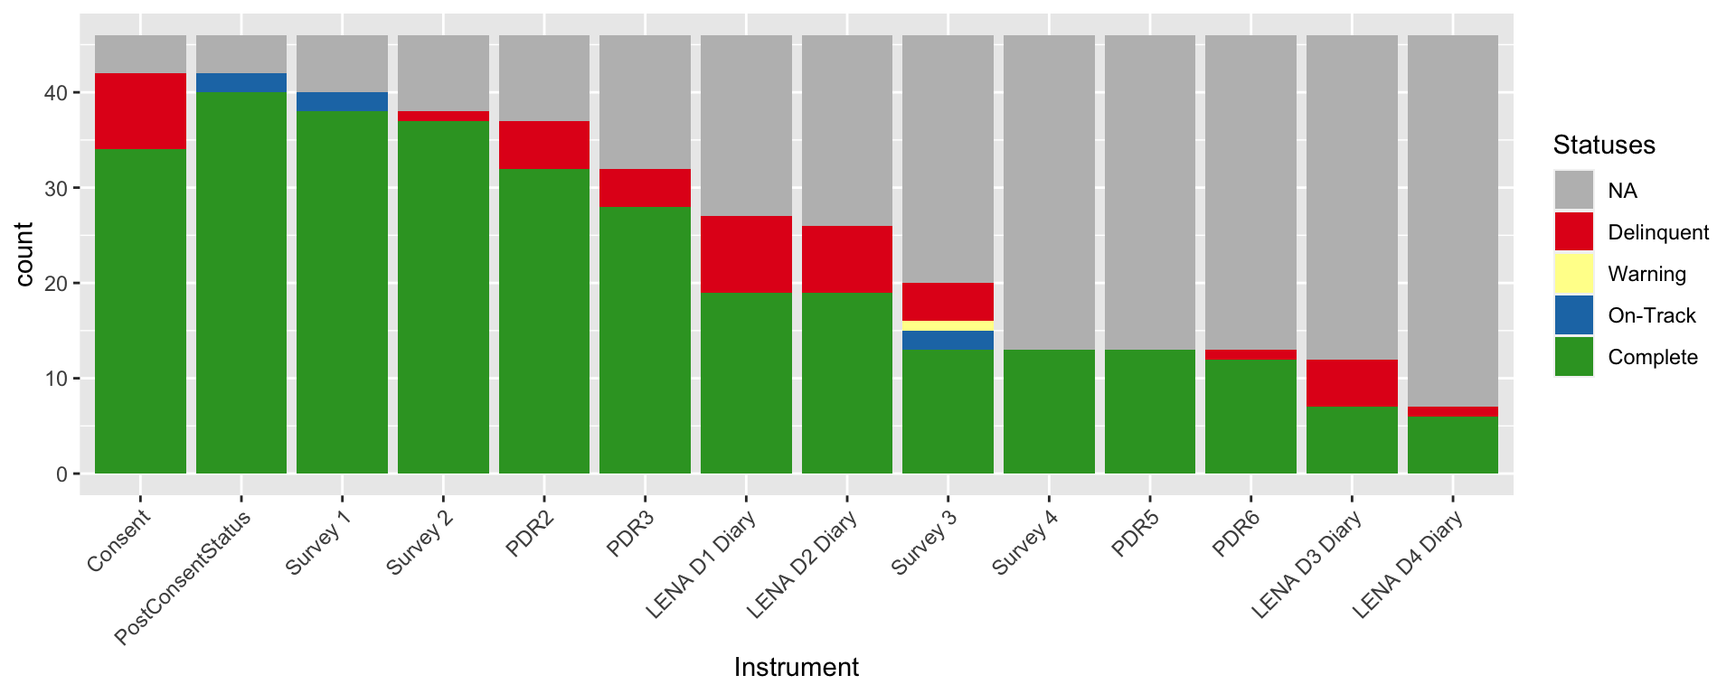
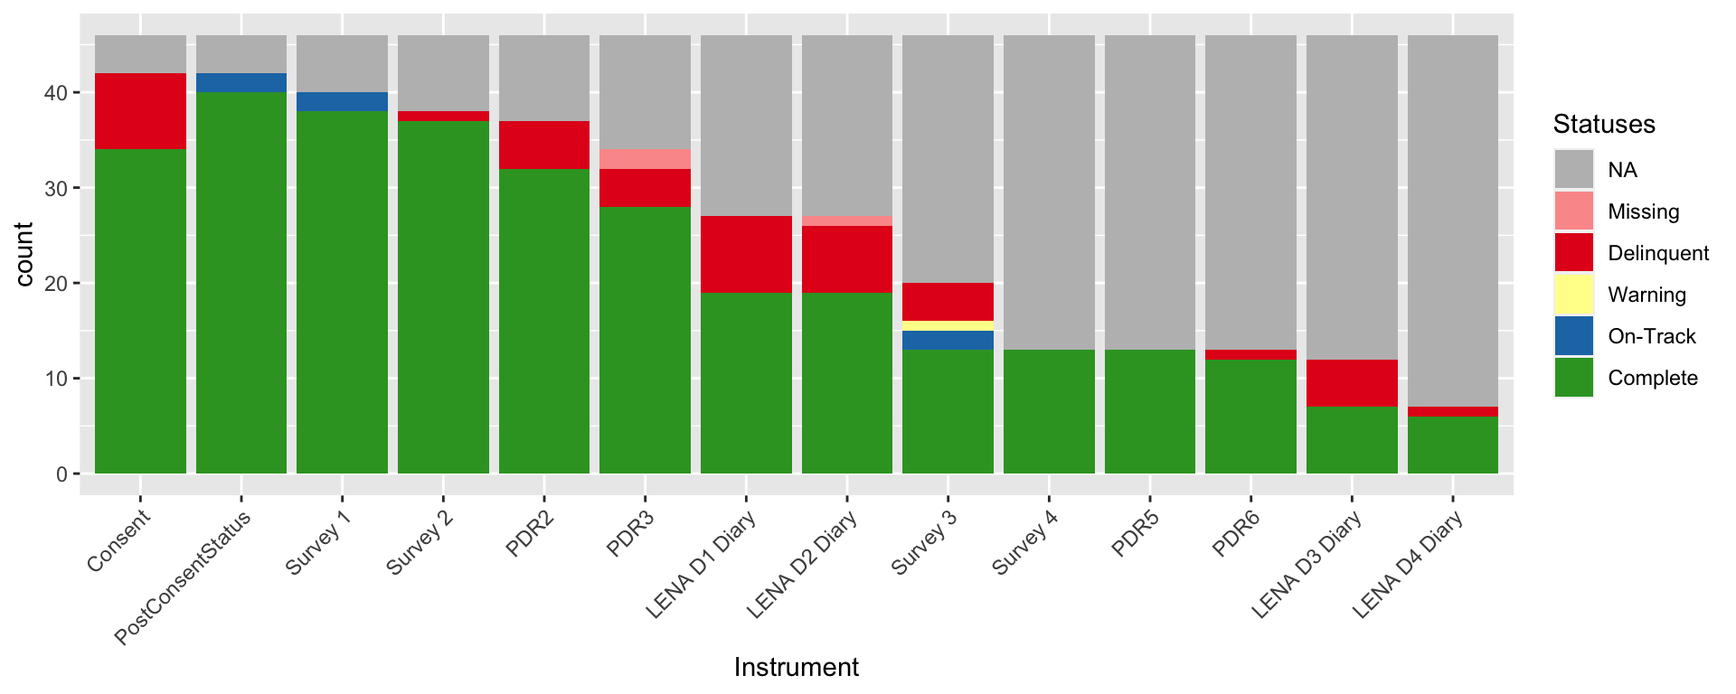
Added missing category to charts

Changed region(s): [[0.875, 0.1562, 1.0, 0.5938], [0.3438, 0.1875, 0.4062, 0.25], [0.4688, 0.3125, 0.5312, 0.3438]]

diff --git a/_site/reports.html b/_site/reports.html
@@ -399,7 +399,7 @@ $(document).ready(function () {
 </div>
 <center>
 <div id="htmlwidget-2e17466358a46d139971" style="width:960px;height:384px;" class="plotly html-widget"></div>
-<script type="application/json" data-for="htmlwidget-2e17466358a46d139971">{"x":{"data":[{"x":[1577836800,1594210295,1595855440,1595947129,1596636699,1597147658,1597158465,1597402867,1597741838,1598436608,1598538979,1598541299,1598955066,1599570320,1600250194,1600255992,1600355481,1600863340,1601302221,1601566658,1602239005,1603368728,1603379955,1603977413,1604491899,1604751373,1605089156,1605170346,1605179257,1605721538,1605872792,1607016682,1607085091,1607472000,1607644800,1607687486,1609891200,1609897301,1611187200,1611187200,1611187200,1609897301,1609891200,1607687486,1607644800,1607472000,1607085091,1607016682,1605872792,1605721538,1605179257,1605170346,1605089156,1604751373,1604491899,1603977413,1603379955,1603368728,1602239005,1601566658,1601302221,1600863340,1600355481,1600255992,1600250194,1599570320,1598955066,1598541299,1598538979,1598436608,1597741838,1597402867,1597158465,1597147658,1596636699,1595947129,1595855440,1594210295,1577836800,1577836800],"y":[0,0,0,0,0,0,0,0,0,0,0,0,0,0,0,0,0,0,0,0,0,0,0,0,0,0,0,0,0,0,0,0,0,0,0,0,0,0,0,0,42,41,40,39,38,37,36,35,34,33,32,31,30,29,28,27,26,25,24,23,22,21,20,19,18,17,16,15,14,13,12,11,10,9,8,7,6,5,4,0],"text":["InformedConsent: 2020-01-01 08:00:00<br />Cumulative:  4","InformedConsent: 2020-07-08 19:11:35<br />Cumulative:  5","InformedConsent: 2020-07-27 20:10:40<br />Cumulative:  6","InformedConsent: 2020-07-28 21:38:49<br />Cumulative:  7","InformedConsent: 2020-08-05 21:11:39<br />Cumulative:  8","InformedConsent: 2020-08-11 19:07:38<br />Cumulative:  9","InformedConsent: 2020-08-11 22:07:45<br />Cumulative: 10","InformedConsent: 2020-08-14 18:01:07<br />Cumulative: 11","InformedConsent: 2020-08-18 16:10:38<br />Cumulative: 12","InformedConsent: 2020-08-26 17:10:08<br />Cumulative: 13","InformedConsent: 2020-08-27 21:36:19<br />Cumulative: 14","InformedConsent: 2020-08-27 22:14:59<br />Cumulative: 15","InformedConsent: 2020-09-01 17:11:06<br />Cumulative: 16","InformedConsent: 2020-09-08 20:05:20<br />Cumulative: 17","InformedConsent: 2020-09-16 16:56:34<br />Cumulative: 18","InformedConsent: 2020-09-16 18:33:12<br />Cumulative: 19","InformedConsent: 2020-09-17 22:11:21<br />Cumulative: 20","InformedConsent: 2020-09-23 19:15:40<br />Cumulative: 21","InformedConsent: 2020-09-28 21:10:21<br />Cumulative: 22","InformedConsent: 2020-10-01 22:37:38<br />Cumulative: 23","InformedConsent: 2020-10-09 17:23:25<br />Cumulative: 24","InformedConsent: 2020-10-22 19:12:08<br />Cumulative: 25","InformedConsent: 2020-10-22 22:19:15<br />Cumulative: 26","InformedConsent: 2020-10-29 20:16:53<br />Cumulative: 27","InformedConsent: 2020-11-04 20:11:39<br />Cumulative: 28","InformedConsent: 2020-11-07 20:16:13<br />Cumulative: 29","InformedConsent: 2020-11-11 18:05:56<br />Cumulative: 30","InformedConsent: 2020-11-12 16:39:06<br />Cumulative: 31","InformedConsent: 2020-11-12 19:07:37<br />Cumulative: 32","InformedConsent: 2020-11-19 01:45:38<br />Cumulative: 33","InformedConsent: 2020-11-20 19:46:32<br />Cumulative: 34","InformedConsent: 2020-12-04 01:31:22<br />Cumulative: 35","InformedConsent: 2020-12-04 20:31:31<br />Cumulative: 36","InformedConsent: 2020-12-09 08:00:00<br />Cumulative: 37","InformedConsent: 2020-12-11 08:00:00<br />Cumulative: 38","InformedConsent: 2020-12-11 19:51:26<br />Cumulative: 39","InformedConsent: 2021-01-06 08:00:00<br />Cumulative: 40","InformedConsent: 2021-01-06 09:41:41<br />Cumulative: 41","InformedConsent: 2021-01-21 08:00:00<br />Cumulative: 42","InformedConsent: 2021-01-21 08:00:00<br />Cumulative: 42","InformedConsent: 2021-01-21 08:00:00<br />Cumulative: 42","InformedConsent: 2021-01-06 09:41:41<br />Cumulative: 41","InformedConsent: 2021-01-06 08:00:00<br />Cumulative: 40","InformedConsent: 2020-12-11 19:51:26<br />Cumulative: 39","InformedConsent: 2020-12-11 08:00:00<br />Cumulative: 38","InformedConsent: 2020-12-09 08:00:00<br />Cumulative: 37","InformedConsent: 2020-12-04 20:31:31<br />Cumulative: 36","InformedConsent: 2020-12-04 01:31:22<br />Cumulative: 35","InformedConsent: 2020-11-20 19:46:32<br />Cumulative: 34","InformedConsent: 2020-11-19 01:45:38<br />Cumulative: 33","InformedConsent: 2020-11-12 19:07:37<br />Cumulative: 32","InformedConsent: 2020-11-12 16:39:06<br />Cumulative: 31","InformedConsent: 2020-11-11 18:05:56<br />Cumulative: 30","InformedConsent: 2020-11-07 20:16:13<br />Cumulative: 29","InformedConsent: 2020-11-04 20:11:39<br />Cumulative: 28","InformedConsent: 2020-10-29 20:16:53<br />Cumulative: 27","InformedConsent: 2020-10-22 22:19:15<br />Cumulative: 26","InformedConsent: 2020-10-22 19:12:08<br />Cumulative: 25","InformedConsent: 2020-10-09 17:23:25<br />Cumulative: 24","InformedConsent: 2020-10-01 22:37:38<br />Cumulative: 23","InformedConsent: 2020-09-28 21:10:21<br />Cumulative: 22","InformedConsent: 2020-09-23 19:15:40<br />Cumulative: 21","InformedConsent: 2020-09-17 22:11:21<br />Cumulative: 20","InformedConsent: 2020-09-16 18:33:12<br />Cumulative: 19","InformedConsent: 2020-09-16 16:56:34<br />Cumulative: 18","InformedConsent: 2020-09-08 20:05:20<br />Cumulative: 17","InformedConsent: 2020-09-01 17:11:06<br />Cumulative: 16","InformedConsent: 2020-08-27 22:14:59<br />Cumulative: 15","InformedConsent: 2020-08-27 21:36:19<br />Cumulative: 14","InformedConsent: 2020-08-26 17:10:08<br />Cumulative: 13","InformedConsent: 2020-08-18 16:10:38<br />Cumulative: 12","InformedConsent: 2020-08-14 18:01:07<br />Cumulative: 11","InformedConsent: 2020-08-11 22:07:45<br />Cumulative: 10","InformedConsent: 2020-08-11 19:07:38<br />Cumulative:  9","InformedConsent: 2020-08-05 21:11:39<br />Cumulative:  8","InformedConsent: 2020-07-28 21:38:49<br />Cumulative:  7","InformedConsent: 2020-07-27 20:10:40<br />Cumulative:  6","InformedConsent: 2020-07-08 19:11:35<br />Cumulative:  5","InformedConsent: 2020-01-01 08:00:00<br />Cumulative:  4","InformedConsent: 2020-01-01 08:00:00<br />Cumulative:  4"],"type":"scatter","mode":"lines","line":{"width":1.88976377952756,"color":"transparent","dash":"solid"},"fill":"toself","fillcolor":"rgba(105,179,162,0.5)","hoveron":"points","showlegend":false,"xaxis":"x","yaxis":"y","hoverinfo":"text","frame":null},{"x":[1577836800,1594210295,1595855440,1595947129,1596636699,1597147658,1597158465,1597402867,1597741838,1598436608,1598538979,1598541299,1598955066,1599570320,1600250194,1600255992,1600355481,1600863340,1601302221,1601566658,1602239005,1603368728,1603379955,1603977413,1604491899,1604751373,1605089156,1605170346,1605179257,1605721538,1605872792,1607016682,1607085091,1607472000,1607644800,1607687486,1609891200,1609897301,1611187200,null],"y":[4,5,6,7,8,9,10,11,12,13,14,15,16,17,18,19,20,21,22,23,24,25,26,27,28,29,30,31,32,33,34,35,36,37,38,39,40,41,42,49],"text":["InformedConsent: 2020-01-01 00:00:00<br />Cumulative:  4","InformedConsent: 2020-07-08 12:11:35<br />Cumulative:  5","InformedConsent: 2020-07-27 13:10:40<br />Cumulative:  6","InformedConsent: 2020-07-28 14:38:49<br />Cumulative:  7","InformedConsent: 2020-08-05 14:11:39<br />Cumulative:  8","InformedConsent: 2020-08-11 12:07:38<br />Cumulative:  9","InformedConsent: 2020-08-11 15:07:45<br />Cumulative: 10","InformedConsent: 2020-08-14 11:01:07<br />Cumulative: 11","InformedConsent: 2020-08-18 09:10:38<br />Cumulative: 12","InformedConsent: 2020-08-26 10:10:08<br />Cumulative: 13","InformedConsent: 2020-08-27 14:36:19<br />Cumulative: 14","InformedConsent: 2020-08-27 15:14:59<br />Cumulative: 15","InformedConsent: 2020-09-01 10:11:06<br />Cumulative: 16","InformedConsent: 2020-09-08 13:05:20<br />Cumulative: 17","InformedConsent: 2020-09-16 09:56:34<br />Cumulative: 18","InformedConsent: 2020-09-16 11:33:12<br />Cumulative: 19","InformedConsent: 2020-09-17 15:11:21<br />Cumulative: 20","InformedConsent: 2020-09-23 12:15:40<br />Cumulative: 21","InformedConsent: 2020-09-28 14:10:21<br />Cumulative: 22","InformedConsent: 2020-10-01 15:37:38<br />Cumulative: 23","InformedConsent: 2020-10-09 10:23:25<br />Cumulative: 24","InformedConsent: 2020-10-22 12:12:08<br />Cumulative: 25","InformedConsent: 2020-10-22 15:19:15<br />Cumulative: 26","InformedConsent: 2020-10-29 13:16:53<br />Cumulative: 27","InformedConsent: 2020-11-04 12:11:39<br />Cumulative: 28","InformedConsent: 2020-11-07 12:16:13<br />Cumulative: 29","InformedConsent: 2020-11-11 10:05:56<br />Cumulative: 30","InformedConsent: 2020-11-12 08:39:06<br />Cumulative: 31","InformedConsent: 2020-11-12 11:07:37<br />Cumulative: 32","InformedConsent: 2020-11-18 17:45:38<br />Cumulative: 33","InformedConsent: 2020-11-20 11:46:32<br />Cumulative: 34","InformedConsent: 2020-12-03 17:31:22<br />Cumulative: 35","InformedConsent: 2020-12-04 12:31:31<br />Cumulative: 36","InformedConsent: 2020-12-09 00:00:00<br />Cumulative: 37","InformedConsent: 2020-12-11 00:00:00<br />Cumulative: 38","InformedConsent: 2020-12-11 11:51:26<br />Cumulative: 39","InformedConsent: 2021-01-06 00:00:00<br />Cumulative: 40","InformedConsent: 2021-01-06 01:41:41<br />Cumulative: 41","InformedConsent: 2021-01-21 00:00:00<br />Cumulative: 42","InformedConsent: NA<br />Cumulative: 49"],"type":"scatter","mode":"lines","line":{"width":1.88976377952756,"color":"rgba(105,179,162,1)","dash":"solid"},"hoveron":"points","showlegend":false,"xaxis":"x","yaxis":"y","hoverinfo":"text","frame":null}],"layout":{"margin":{"t":65.813200498132,"r":39.8505603985056,"b":80.8634288086343,"l":70.9007887090079},"font":{"color":"rgba(0,0,0,1)","family":"Arial Narrow","size":15.2760481527605},"xaxis":{"domain":[0,1],"automargin":true,"type":"linear","autorange":false,"range":[1576169280,1612854720],"tickmode":"array","ticktext":["Jan 2020","Apr 2020","Jul 2020","Oct 2020","Jan 2021"],"tickvals":[1577836800,1585699200,1593561600,1601510400,1609459200],"categoryorder":"array","categoryarray":["Jan 2020","Apr 2020","Jul 2020","Oct 2020","Jan 2021"],"nticks":null,"ticks":"","tickcolor":null,"ticklen":3.81901203819012,"tickwidth":0,"showticklabels":true,"tickfont":{"color":"rgba(77,77,77,1)","family":"Arial Narrow","size":15.2760481527605},"tickangle":-0,"showline":false,"linecolor":null,"linewidth":0,"showgrid":true,"gridcolor":"rgba(204,204,204,1)","gridwidth":0.265670402656704,"zeroline":false,"anchor":"y","title":{"text":"Time","font":{"color":"rgba(0,0,0,1)","family":"Arial Narrow","size":11.9551681195517}},"hoverformat":".2f"},"yaxis":{"domain":[0,1],"automargin":true,"type":"linear","autorange":false,"range":[-2.45,51.45],"tickmode":"array","ticktext":["0","10","20","30","40","50"],"tickvals":[0,10,20,30,40,50],"categoryorder":"array","categoryarray":["0","10","20","30","40","50"],"nticks":null,"ticks":"","tickcolor":null,"ticklen":3.81901203819012,"tickwidth":0,"showticklabels":true,"tickfont":{"color":"rgba(77,77,77,1)","family":"Arial Narrow","size":15.2760481527605},"tickangle":-0,"showline":false,"linecolor":null,"linewidth":0,"showgrid":true,"gridcolor":"rgba(204,204,204,1)","gridwidth":0.265670402656704,"zeroline":false,"anchor":"x","title":{"text":"Dyad Count","font":{"color":"rgba(0,0,0,1)","family":"Arial Narrow","size":11.9551681195517}},"hoverformat":".2f"},"shapes":[{"type":"rect","fillcolor":null,"line":{"color":null,"width":0,"linetype":[]},"yref":"paper","xref":"paper","x0":0,"x1":1,"y0":0,"y1":1}],"showlegend":false,"legend":{"bgcolor":null,"bordercolor":null,"borderwidth":0,"font":{"color":"rgba(0,0,0,1)","family":"Arial Narrow","size":12.2208385222084}},"hovermode":"closest","barmode":"relative"},"config":{"doubleClick":"reset","showSendToCloud":false},"source":"A","attrs":{"8abd171a44c8":{"x":{},"y":{},"type":"scatter"},"8abd3d99b251":{"x":{},"y":{}}},"cur_data":"8abd171a44c8","visdat":{"8abd171a44c8":["function (y) ","x"],"8abd3d99b251":["function (y) ","x"]},"highlight":{"on":"plotly_click","persistent":false,"dynamic":false,"selectize":false,"opacityDim":0.2,"selected":{"opacity":1},"debounce":0},"shinyEvents":["plotly_hover","plotly_click","plotly_selected","plotly_relayout","plotly_brushed","plotly_brushing","plotly_clickannotation","plotly_doubleclick","plotly_deselect","plotly_afterplot","plotly_sunburstclick"],"base_url":"https://plot.ly"},"evals":[],"jsHooks":[]}</script><img src="reports_files/figure-html/SEAL%20Conditions%20Plot-2.png" width="960" />
+<script type="application/json" data-for="htmlwidget-2e17466358a46d139971">{"x":{"data":[{"x":[1577836800,1594210295,1595855440,1595947129,1596636699,1597147658,1597158465,1597402867,1597741838,1598436608,1598538979,1598541299,1598955066,1599570320,1600250194,1600255992,1600355481,1600863340,1601302221,1601566658,1602239005,1603368728,1603379955,1603977413,1604491899,1604751373,1605089156,1605170346,1605179257,1605721538,1605872792,1607016682,1607085091,1607472000,1607644800,1607687486,1609891200,1609897301,1611187200,1611187200,1611187200,1609897301,1609891200,1607687486,1607644800,1607472000,1607085091,1607016682,1605872792,1605721538,1605179257,1605170346,1605089156,1604751373,1604491899,1603977413,1603379955,1603368728,1602239005,1601566658,1601302221,1600863340,1600355481,1600255992,1600250194,1599570320,1598955066,1598541299,1598538979,1598436608,1597741838,1597402867,1597158465,1597147658,1596636699,1595947129,1595855440,1594210295,1577836800,1577836800],"y":[0,0,0,0,0,0,0,0,0,0,0,0,0,0,0,0,0,0,0,0,0,0,0,0,0,0,0,0,0,0,0,0,0,0,0,0,0,0,0,0,42,41,40,39,38,37,36,35,34,33,32,31,30,29,28,27,26,25,24,23,22,21,20,19,18,17,16,15,14,13,12,11,10,9,8,7,6,5,4,0],"text":["InformedConsent: 2020-01-01 08:00:00<br />Cumulative:  4","InformedConsent: 2020-07-08 19:11:35<br />Cumulative:  5","InformedConsent: 2020-07-27 20:10:40<br />Cumulative:  6","InformedConsent: 2020-07-28 21:38:49<br />Cumulative:  7","InformedConsent: 2020-08-05 21:11:39<br />Cumulative:  8","InformedConsent: 2020-08-11 19:07:38<br />Cumulative:  9","InformedConsent: 2020-08-11 22:07:45<br />Cumulative: 10","InformedConsent: 2020-08-14 18:01:07<br />Cumulative: 11","InformedConsent: 2020-08-18 16:10:38<br />Cumulative: 12","InformedConsent: 2020-08-26 17:10:08<br />Cumulative: 13","InformedConsent: 2020-08-27 21:36:19<br />Cumulative: 14","InformedConsent: 2020-08-27 22:14:59<br />Cumulative: 15","InformedConsent: 2020-09-01 17:11:06<br />Cumulative: 16","InformedConsent: 2020-09-08 20:05:20<br />Cumulative: 17","InformedConsent: 2020-09-16 16:56:34<br />Cumulative: 18","InformedConsent: 2020-09-16 18:33:12<br />Cumulative: 19","InformedConsent: 2020-09-17 22:11:21<br />Cumulative: 20","InformedConsent: 2020-09-23 19:15:40<br />Cumulative: 21","InformedConsent: 2020-09-28 21:10:21<br />Cumulative: 22","InformedConsent: 2020-10-01 22:37:38<br />Cumulative: 23","InformedConsent: 2020-10-09 17:23:25<br />Cumulative: 24","InformedConsent: 2020-10-22 19:12:08<br />Cumulative: 25","InformedConsent: 2020-10-22 22:19:15<br />Cumulative: 26","InformedConsent: 2020-10-29 20:16:53<br />Cumulative: 27","InformedConsent: 2020-11-04 20:11:39<br />Cumulative: 28","InformedConsent: 2020-11-07 20:16:13<br />Cumulative: 29","InformedConsent: 2020-11-11 18:05:56<br />Cumulative: 30","InformedConsent: 2020-11-12 16:39:06<br />Cumulative: 31","InformedConsent: 2020-11-12 19:07:37<br />Cumulative: 32","InformedConsent: 2020-11-19 01:45:38<br />Cumulative: 33","InformedConsent: 2020-11-20 19:46:32<br />Cumulative: 34","InformedConsent: 2020-12-04 01:31:22<br />Cumulative: 35","InformedConsent: 2020-12-04 20:31:31<br />Cumulative: 36","InformedConsent: 2020-12-09 08:00:00<br />Cumulative: 37","InformedConsent: 2020-12-11 08:00:00<br />Cumulative: 38","InformedConsent: 2020-12-11 19:51:26<br />Cumulative: 39","InformedConsent: 2021-01-06 08:00:00<br />Cumulative: 40","InformedConsent: 2021-01-06 09:41:41<br />Cumulative: 41","InformedConsent: 2021-01-21 08:00:00<br />Cumulative: 42","InformedConsent: 2021-01-21 08:00:00<br />Cumulative: 42","InformedConsent: 2021-01-21 08:00:00<br />Cumulative: 42","InformedConsent: 2021-01-06 09:41:41<br />Cumulative: 41","InformedConsent: 2021-01-06 08:00:00<br />Cumulative: 40","InformedConsent: 2020-12-11 19:51:26<br />Cumulative: 39","InformedConsent: 2020-12-11 08:00:00<br />Cumulative: 38","InformedConsent: 2020-12-09 08:00:00<br />Cumulative: 37","InformedConsent: 2020-12-04 20:31:31<br />Cumulative: 36","InformedConsent: 2020-12-04 01:31:22<br />Cumulative: 35","InformedConsent: 2020-11-20 19:46:32<br />Cumulative: 34","InformedConsent: 2020-11-19 01:45:38<br />Cumulative: 33","InformedConsent: 2020-11-12 19:07:37<br />Cumulative: 32","InformedConsent: 2020-11-12 16:39:06<br />Cumulative: 31","InformedConsent: 2020-11-11 18:05:56<br />Cumulative: 30","InformedConsent: 2020-11-07 20:16:13<br />Cumulative: 29","InformedConsent: 2020-11-04 20:11:39<br />Cumulative: 28","InformedConsent: 2020-10-29 20:16:53<br />Cumulative: 27","InformedConsent: 2020-10-22 22:19:15<br />Cumulative: 26","InformedConsent: 2020-10-22 19:12:08<br />Cumulative: 25","InformedConsent: 2020-10-09 17:23:25<br />Cumulative: 24","InformedConsent: 2020-10-01 22:37:38<br />Cumulative: 23","InformedConsent: 2020-09-28 21:10:21<br />Cumulative: 22","InformedConsent: 2020-09-23 19:15:40<br />Cumulative: 21","InformedConsent: 2020-09-17 22:11:21<br />Cumulative: 20","InformedConsent: 2020-09-16 18:33:12<br />Cumulative: 19","InformedConsent: 2020-09-16 16:56:34<br />Cumulative: 18","InformedConsent: 2020-09-08 20:05:20<br />Cumulative: 17","InformedConsent: 2020-09-01 17:11:06<br />Cumulative: 16","InformedConsent: 2020-08-27 22:14:59<br />Cumulative: 15","InformedConsent: 2020-08-27 21:36:19<br />Cumulative: 14","InformedConsent: 2020-08-26 17:10:08<br />Cumulative: 13","InformedConsent: 2020-08-18 16:10:38<br />Cumulative: 12","InformedConsent: 2020-08-14 18:01:07<br />Cumulative: 11","InformedConsent: 2020-08-11 22:07:45<br />Cumulative: 10","InformedConsent: 2020-08-11 19:07:38<br />Cumulative:  9","InformedConsent: 2020-08-05 21:11:39<br />Cumulative:  8","InformedConsent: 2020-07-28 21:38:49<br />Cumulative:  7","InformedConsent: 2020-07-27 20:10:40<br />Cumulative:  6","InformedConsent: 2020-07-08 19:11:35<br />Cumulative:  5","InformedConsent: 2020-01-01 08:00:00<br />Cumulative:  4","InformedConsent: 2020-01-01 08:00:00<br />Cumulative:  4"],"type":"scatter","mode":"lines","line":{"width":1.88976377952756,"color":"transparent","dash":"solid"},"fill":"toself","fillcolor":"rgba(105,179,162,0.5)","hoveron":"points","showlegend":false,"xaxis":"x","yaxis":"y","hoverinfo":"text","frame":null},{"x":[1577836800,1594210295,1595855440,1595947129,1596636699,1597147658,1597158465,1597402867,1597741838,1598436608,1598538979,1598541299,1598955066,1599570320,1600250194,1600255992,1600355481,1600863340,1601302221,1601566658,1602239005,1603368728,1603379955,1603977413,1604491899,1604751373,1605089156,1605170346,1605179257,1605721538,1605872792,1607016682,1607085091,1607472000,1607644800,1607687486,1609891200,1609897301,1611187200,null],"y":[4,5,6,7,8,9,10,11,12,13,14,15,16,17,18,19,20,21,22,23,24,25,26,27,28,29,30,31,32,33,34,35,36,37,38,39,40,41,42,49],"text":["InformedConsent: 2020-01-01 00:00:00<br />Cumulative:  4","InformedConsent: 2020-07-08 12:11:35<br />Cumulative:  5","InformedConsent: 2020-07-27 13:10:40<br />Cumulative:  6","InformedConsent: 2020-07-28 14:38:49<br />Cumulative:  7","InformedConsent: 2020-08-05 14:11:39<br />Cumulative:  8","InformedConsent: 2020-08-11 12:07:38<br />Cumulative:  9","InformedConsent: 2020-08-11 15:07:45<br />Cumulative: 10","InformedConsent: 2020-08-14 11:01:07<br />Cumulative: 11","InformedConsent: 2020-08-18 09:10:38<br />Cumulative: 12","InformedConsent: 2020-08-26 10:10:08<br />Cumulative: 13","InformedConsent: 2020-08-27 14:36:19<br />Cumulative: 14","InformedConsent: 2020-08-27 15:14:59<br />Cumulative: 15","InformedConsent: 2020-09-01 10:11:06<br />Cumulative: 16","InformedConsent: 2020-09-08 13:05:20<br />Cumulative: 17","InformedConsent: 2020-09-16 09:56:34<br />Cumulative: 18","InformedConsent: 2020-09-16 11:33:12<br />Cumulative: 19","InformedConsent: 2020-09-17 15:11:21<br />Cumulative: 20","InformedConsent: 2020-09-23 12:15:40<br />Cumulative: 21","InformedConsent: 2020-09-28 14:10:21<br />Cumulative: 22","InformedConsent: 2020-10-01 15:37:38<br />Cumulative: 23","InformedConsent: 2020-10-09 10:23:25<br />Cumulative: 24","InformedConsent: 2020-10-22 12:12:08<br />Cumulative: 25","InformedConsent: 2020-10-22 15:19:15<br />Cumulative: 26","InformedConsent: 2020-10-29 13:16:53<br />Cumulative: 27","InformedConsent: 2020-11-04 12:11:39<br />Cumulative: 28","InformedConsent: 2020-11-07 12:16:13<br />Cumulative: 29","InformedConsent: 2020-11-11 10:05:56<br />Cumulative: 30","InformedConsent: 2020-11-12 08:39:06<br />Cumulative: 31","InformedConsent: 2020-11-12 11:07:37<br />Cumulative: 32","InformedConsent: 2020-11-18 17:45:38<br />Cumulative: 33","InformedConsent: 2020-11-20 11:46:32<br />Cumulative: 34","InformedConsent: 2020-12-03 17:31:22<br />Cumulative: 35","InformedConsent: 2020-12-04 12:31:31<br />Cumulative: 36","InformedConsent: 2020-12-09 00:00:00<br />Cumulative: 37","InformedConsent: 2020-12-11 00:00:00<br />Cumulative: 38","InformedConsent: 2020-12-11 11:51:26<br />Cumulative: 39","InformedConsent: 2021-01-06 00:00:00<br />Cumulative: 40","InformedConsent: 2021-01-06 01:41:41<br />Cumulative: 41","InformedConsent: 2021-01-21 00:00:00<br />Cumulative: 42","InformedConsent: NA<br />Cumulative: 49"],"type":"scatter","mode":"lines","line":{"width":1.88976377952756,"color":"rgba(105,179,162,1)","dash":"solid"},"hoveron":"points","showlegend":false,"xaxis":"x","yaxis":"y","hoverinfo":"text","frame":null}],"layout":{"margin":{"t":65.813200498132,"r":39.8505603985056,"b":80.8634288086343,"l":70.9007887090079},"font":{"color":"rgba(0,0,0,1)","family":"Arial Narrow","size":15.2760481527605},"xaxis":{"domain":[0,1],"automargin":true,"type":"linear","autorange":false,"range":[1576169280,1612854720],"tickmode":"array","ticktext":["Jan 2020","Apr 2020","Jul 2020","Oct 2020","Jan 2021"],"tickvals":[1577836800,1585699200,1593561600,1601510400,1609459200],"categoryorder":"array","categoryarray":["Jan 2020","Apr 2020","Jul 2020","Oct 2020","Jan 2021"],"nticks":null,"ticks":"","tickcolor":null,"ticklen":3.81901203819012,"tickwidth":0,"showticklabels":true,"tickfont":{"color":"rgba(77,77,77,1)","family":"Arial Narrow","size":15.2760481527605},"tickangle":-0,"showline":false,"linecolor":null,"linewidth":0,"showgrid":true,"gridcolor":"rgba(204,204,204,1)","gridwidth":0.265670402656704,"zeroline":false,"anchor":"y","title":{"text":"Time","font":{"color":"rgba(0,0,0,1)","family":"Arial Narrow","size":11.9551681195517}},"hoverformat":".2f"},"yaxis":{"domain":[0,1],"automargin":true,"type":"linear","autorange":false,"range":[-2.45,51.45],"tickmode":"array","ticktext":["0","10","20","30","40","50"],"tickvals":[0,10,20,30,40,50],"categoryorder":"array","categoryarray":["0","10","20","30","40","50"],"nticks":null,"ticks":"","tickcolor":null,"ticklen":3.81901203819012,"tickwidth":0,"showticklabels":true,"tickfont":{"color":"rgba(77,77,77,1)","family":"Arial Narrow","size":15.2760481527605},"tickangle":-0,"showline":false,"linecolor":null,"linewidth":0,"showgrid":true,"gridcolor":"rgba(204,204,204,1)","gridwidth":0.265670402656704,"zeroline":false,"anchor":"x","title":{"text":"Dyad Count","font":{"color":"rgba(0,0,0,1)","family":"Arial Narrow","size":11.9551681195517}},"hoverformat":".2f"},"shapes":[{"type":"rect","fillcolor":null,"line":{"color":null,"width":0,"linetype":[]},"yref":"paper","xref":"paper","x0":0,"x1":1,"y0":0,"y1":1}],"showlegend":false,"legend":{"bgcolor":null,"bordercolor":null,"borderwidth":0,"font":{"color":"rgba(0,0,0,1)","family":"Arial Narrow","size":12.2208385222084}},"hovermode":"closest","barmode":"relative"},"config":{"doubleClick":"reset","showSendToCloud":false},"source":"A","attrs":{"926072d4404":{"x":{},"y":{},"type":"scatter"},"92602ccc664a":{"x":{},"y":{}}},"cur_data":"926072d4404","visdat":{"926072d4404":["function (y) ","x"],"92602ccc664a":["function (y) ","x"]},"highlight":{"on":"plotly_click","persistent":false,"dynamic":false,"selectize":false,"opacityDim":0.2,"selected":{"opacity":1},"debounce":0},"shinyEvents":["plotly_hover","plotly_click","plotly_selected","plotly_relayout","plotly_brushed","plotly_brushing","plotly_clickannotation","plotly_doubleclick","plotly_deselect","plotly_afterplot","plotly_sunburstclick"],"base_url":"https://plot.ly"},"evals":[],"jsHooks":[]}</script><img src="reports_files/figure-html/SEAL%20Conditions%20Plot-2.png" width="960" />
 <center>
 <div>
 

diff --git a/_site/enrollment.html b/_site/enrollment.html
@@ -1086,6 +1086,9 @@ Warning
 Delinquent
 </th>
 <th style="text-align:right;">
+Missing
+</th>
+<th style="text-align:right;">
 NA
 </th>
 </tr>
@@ -1108,6 +1111,9 @@ Consent
 8
 </td>
 <td style="text-align:right;">
+0
+</td>
+<td style="text-align:right;">
 4
 </td>
 </tr>
@@ -1120,6 +1126,9 @@ Post Consent
 </td>
 <td style="text-align:right;">
 2
+</td>
+<td style="text-align:right;">
+0
 </td>
 <td style="text-align:right;">
 0
@@ -1148,6 +1157,9 @@ Survey 1
 0
 </td>
 <td style="text-align:right;">
+0
+</td>
+<td style="text-align:right;">
 6
 </td>
 </tr>
@@ -1166,6 +1178,9 @@ Survey 2
 </td>
 <td style="text-align:right;">
 1
+</td>
+<td style="text-align:right;">
+0
 </td>
 <td style="text-align:right;">
 8
@@ -1188,6 +1203,9 @@ PDR2
 5
 </td>
 <td style="text-align:right;">
+0
+</td>
+<td style="text-align:right;">
 9
 </td>
 </tr>
@@ -1208,7 +1226,10 @@ PDR3
 4
 </td>
 <td style="text-align:right;">
-14
+2
+</td>
+<td style="text-align:right;">
+12
 </td>
 </tr>
 <tr>
@@ -1226,6 +1247,9 @@ LENA D1 Diary
 </td>
 <td style="text-align:right;">
 8
+</td>
+<td style="text-align:right;">
+0
 </td>
 <td style="text-align:right;">
 19
@@ -1248,7 +1272,10 @@ LENA D2 Diary
 7
 </td>
 <td style="text-align:right;">
-20
+1
+</td>
+<td style="text-align:right;">
+19
 </td>
 </tr>
 <tr>
@@ -1268,6 +1295,9 @@ Survey 3
 4
 </td>
 <td style="text-align:right;">
+0
+</td>
+<td style="text-align:right;">
 26
 </td>
 </tr>
@@ -1277,6 +1307,9 @@ Survey 4
 </td>
 <td style="text-align:right;">
 13
+</td>
+<td style="text-align:right;">
+0
 </td>
 <td style="text-align:right;">
 0
@@ -1308,6 +1341,9 @@ PDR5
 0
 </td>
 <td style="text-align:right;">
+0
+</td>
+<td style="text-align:right;">
 33
 </td>
 </tr>
@@ -1326,6 +1362,9 @@ PDR6
 </td>
 <td style="text-align:right;">
 1
+</td>
+<td style="text-align:right;">
+0
 </td>
 <td style="text-align:right;">
 33
@@ -1348,6 +1387,9 @@ LENA D3 Diary
 5
 </td>
 <td style="text-align:right;">
+0
+</td>
+<td style="text-align:right;">
 34
 </td>
 </tr>
@@ -1366,6 +1408,9 @@ LENA D4 Diary
 </td>
 <td style="text-align:right;">
 1
+</td>
+<td style="text-align:right;">
+0
 </td>
 <td style="text-align:right;">
 39
